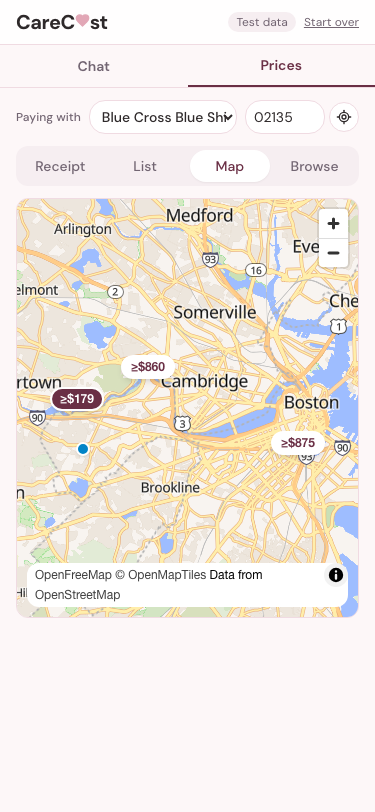
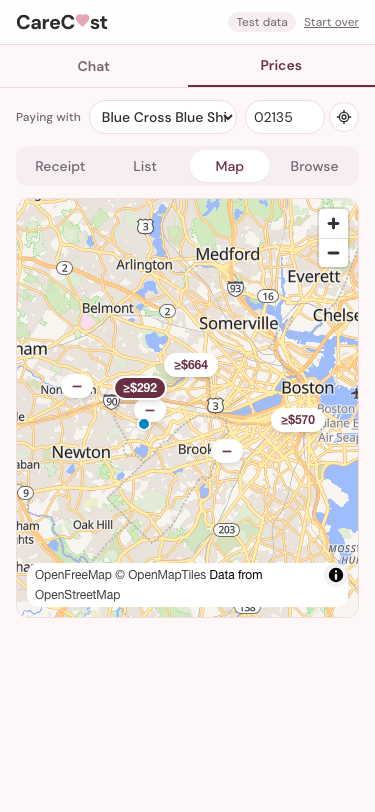
docs(frontend): D2 screenshots in mock and api mode, api switch timing

Changed region(s): [[0.0293, 0.2463, 0.968, 0.7697]]

diff --git a/docs/frontend.md b/docs/frontend.md
@@ -1,8 +1,8 @@
 # Frontend (wave 2, stream D)
 
 The CareCost price tool at `/start`: payment choice, chat, "Skip AI → Browse prices", a split view
-(chat | receipt · list · map), the gradient receipt, and full-page red-flag / 988 stops. It runs on the
-committed contract fixtures (mock mode) until streams C and Chat merge.
+(chat | receipt · list · map), the gradient receipt, and full-page red-flag / 988 stops. Mock mode runs on the
+committed contract fixtures; api mode runs on the merged backend (`app.server`, wave2/base 68326f8 + D2).
 
 ## Run
 
@@ -10,7 +10,7 @@ committed contract fixtures (mock mode) until streams C and Chat merge.
 cd frontend
 npm ci
 npm run dev:app                      # http://127.0.0.1:5180/start  (mock data, the default)
-VITE_DATA_SOURCE=api npm run dev:app # real API: /api is proxied to 127.0.0.1:$VITE_API_PORT (default 8000)
+VITE_DATA_SOURCE=api npm run dev:app # real API: /api is proxied to 127.0.0.1:$VITE_API_PORT (default 8100)
 # or add ?data=api / ?data=mock to the URL
 
 npm run typecheck:contracts          # generated contract types + exhaustive.ts + the copy file
@@ -18,7 +18,9 @@ npm run typecheck:app                # tsc -p tsconfig.app.json (0 errors)
 npx vitest run                       # logic + component tests
 npm run content:build                # glossary / cards / questions / MA ZIP JSON from their YAML sources
 npm run build && npx vite preview --host 127.0.0.1 --port 5180 --strictPort
-npm run screenshots                  # Playwright, needs a server on :5180; writes docs/frontend/*.png + switch-timing.json
+# api mode needs the backend: cd backend && uv run --frozen uvicorn app.server:app --port 8100
+MODE=both npm run screenshots        # Playwright, needs a server on :5180; mock -> <screen>-<w>.png + switch-timing.json,
+                                     # api -> <screen>-api-<w>.png + switch-timing-api.json
 ```
 
 ## Where things are
@@ -31,7 +33,7 @@ npm run screenshots                  # Playwright, needs a server on :5180; writ
 | `src/app/components/SiteList.tsx`, `SiteMap.tsx`, `Booking.tsx` | §4.3 list and MapLibre map (OpenFreeMap `liberty` style, no key; loaded lazily) |
 | `src/app/components/ChatPane.tsx` | every chat reply kind; chips; "Because you said"; D33 lines |
 | `src/app/pages/StopPages.tsx` | red flag (911 / ER / seen today / routine) and the separate crisis_988 page |
-| `src/app/api/client.ts`, `mock.ts` | `POST /api/quote`, `POST /api/chat`, `GET /api/catalog`; mock mode from `contracts/fixtures/*.json` |
+| `src/app/api/client.ts`, `mock.ts` | `POST /api/quote`, `POST /api/chat`, `GET /api/catalog`, `GET /api/catalog/paths`, `GET /api/catalog/paths/{id}/services`; mock mode from `contracts/fixtures/*.json`. `quoteBody()` is the one spot where C2's `near` / `max_sites` will go |
 | `src/app/lib/*` | pure logic: tiers, source hover text, freshness, cash-discount check, hours (Boston time), distance, sorting, payment list |
 | `src/contracts/copy.ts` | the copy file every contract copy key resolves to (compile-checked) |
 | `src/app/content/*.json` | built from `content/glossary/glossary.yaml`, `data/questions/questions.yaml`, and the `zipcodes` package (MA only) |
@@ -51,11 +53,24 @@ npm run screenshots                  # Playwright, needs a server on :5180; writ
 - Red flag → full page, no prices. crisis_988 has its own page (tel:988, sms:988, 988lifeline.org chat, 911).
 - No accounts (D19). Email is asked only before AI use (D2), unverified.
 
+## Merged quote contract (D2)
+
+- A range cites both ends: `Money.prov` (low) and `Money.prov_high` (high) render as a "Low:" and a "High:" chip
+  when they are different rows; the hover shows `row_ref` and `Provenance.row_id`.
+- `SiteSummary.price_source_id: null` → "This place has its own price list, but we do not read it yet".
+- `ReceiptLine.at = your_primary_care` → "Happens at your own primary care office, not at this place".
+- Rung 6 (`basis: estimate`) carries an "Estimate" tag (the total already flags `includes_estimate`); rung 7
+  carries "Reference only, not added" and its amount is dimmed.
+- `QuoteResponse.copy_keys` (D33) render under the receipt as "Before you go"; a manual pick has none.
+- Browse uses the two picker routes: a care path opens its services ("Price every step" or "Only: <service>").
+- Chat in api mode: the merged base has no `/api/chat` route yet (404) → a plain error with "Browse prices";
+  `ai_paused(provider_unavailable)` renders `ai.paused_provider` with the browse button.
+
 ## Mock mode
 
-Quotes: chronic shoulder pain × {BCBS MA HMO (real P1 output), cash (real P1 output), Medicare (hand-made)}.
-Anything else (other insurers, MassHealth, other care paths, single-service picks) shows "No test data for this
-choice yet" instead of inventing numbers. Chat is a demo script, not the red-flag gate: crisis words → the
+Quotes (C's engine on the committed extract): chronic shoulder pain × {BCBS MA HMO, cash, Medicare}, and a
+manual pick of 73030 + 73221 × MassHealth (reachable through the mock API; the UI picks one service at a time).
+Anything else shows "No test data for this choice yet" instead of inventing numbers. Chat is a demo script, not the red-flag gate: crisis words → the
 crisis_988 reply (copy from `data/redflags/redflags.json`), emergency words → the call_911 fixture, first
 message → clarify, later turns → care_paths; `#text`, `#invalid`, `#paused` return those fixtures.
 
@@ -71,9 +86,13 @@ launch: `copy.not_a_diagnosis`, `copy.when_to_see_a_doctor`, the four `youpay.*`
 Insurance switch (plan §4.1, < 300 ms): time from the payment `<select>` change to the next animation frame
 after the new receipt commits (`window.__carecostSwitch`, `scripts/screenshots.mjs`), production build
 (`vite preview`), mock mode, headless Chromium, Austin's Mac, 2026-10-24. See `docs/frontend/switch-timing.json`.
-Mock mode has no network round trip; with the real API add the quote latency (P1 bench: p50 2.7 ms on loopback).
+Api mode (D2, 2026-10-25): same method against `uvicorn app.server:app --port 8100` on the committed extract, through
+the `vite preview` proxy; five uncached switches per width, 10.6–17.9 ms; cached 4.1–9.2 ms
+(`docs/frontend/switch-timing-api.json`).
 
 ## Screenshots (`docs/frontend/`)
 
-`start`, `receipt-bcbs`, `receipt-cash`, `list`, `map`, `red-flag`, `crisis-988` at 375 and 1280 px, plus
-`split-stacked-flipped-1280`.
+Mock: `start`, `receipt-bcbs`, `receipt-bcbs-tufts`, `receipt-cash`, `list`, `map`, `red-flag`, `crisis-988` at 375
+and 1280 px, plus `split-stacked-flipped-1280`. Api (`-api`): `start`, `receipt-bcbs`, `receipt-bcbs-tufts`,
+`receipt-cash`, `list`, `receipt-masshealth-mri`, `chat-404`, `chat-paused` (the last answers `/api/chat` in the
+browser with the Chat service's no-key reply, since Chat is not merged; quotes still come from the server).
